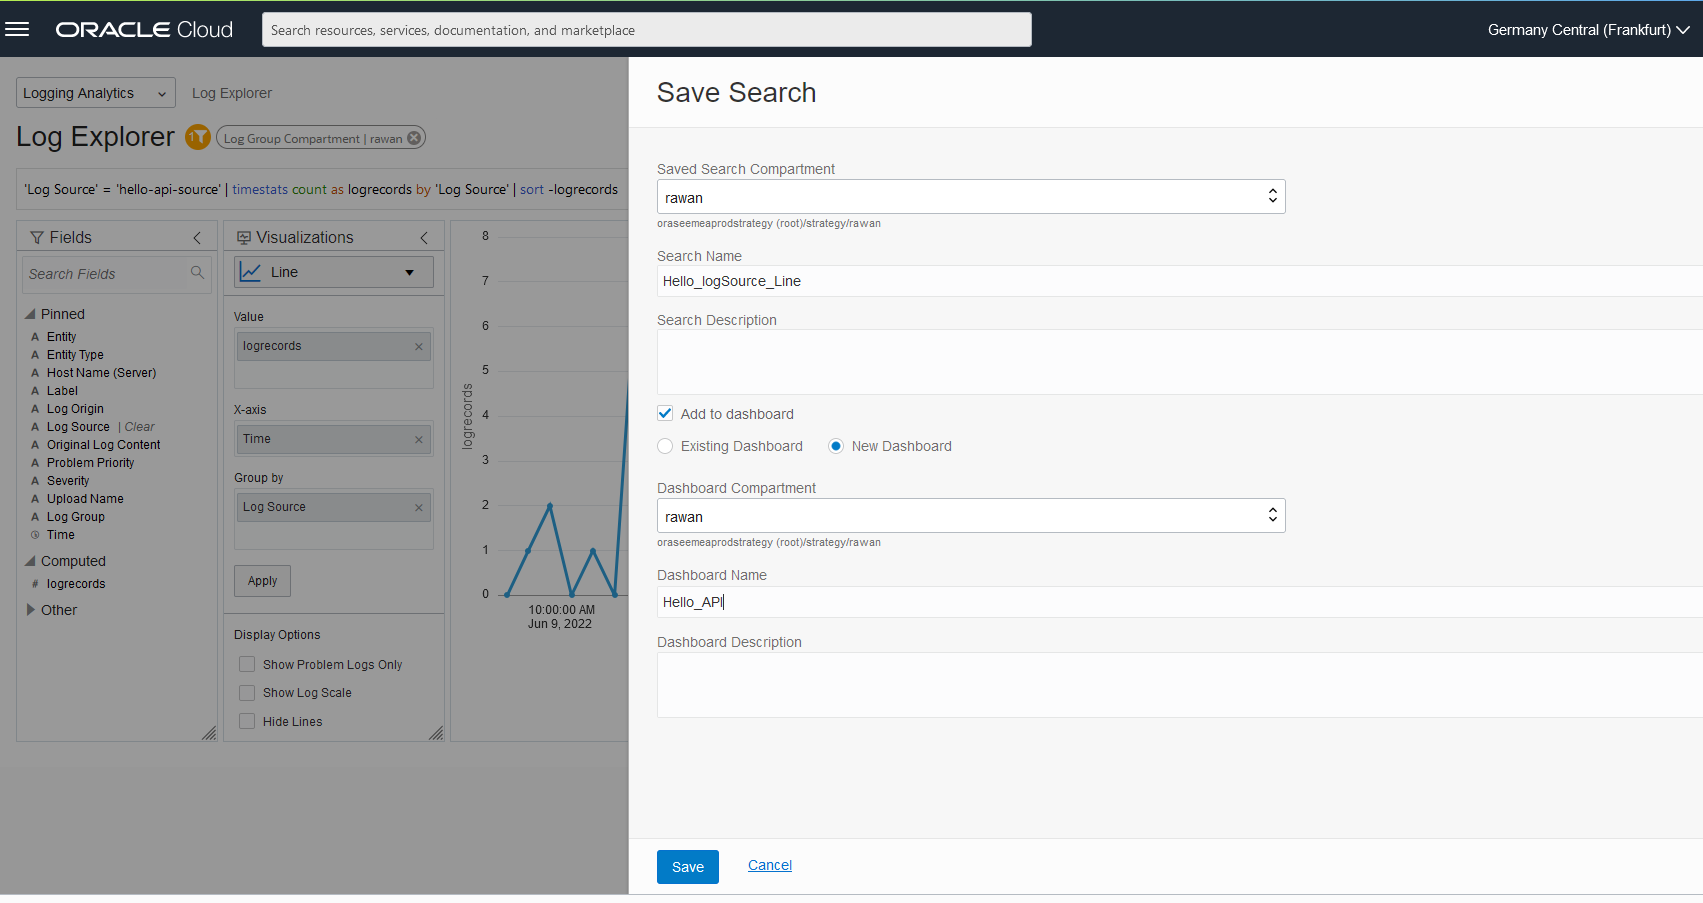
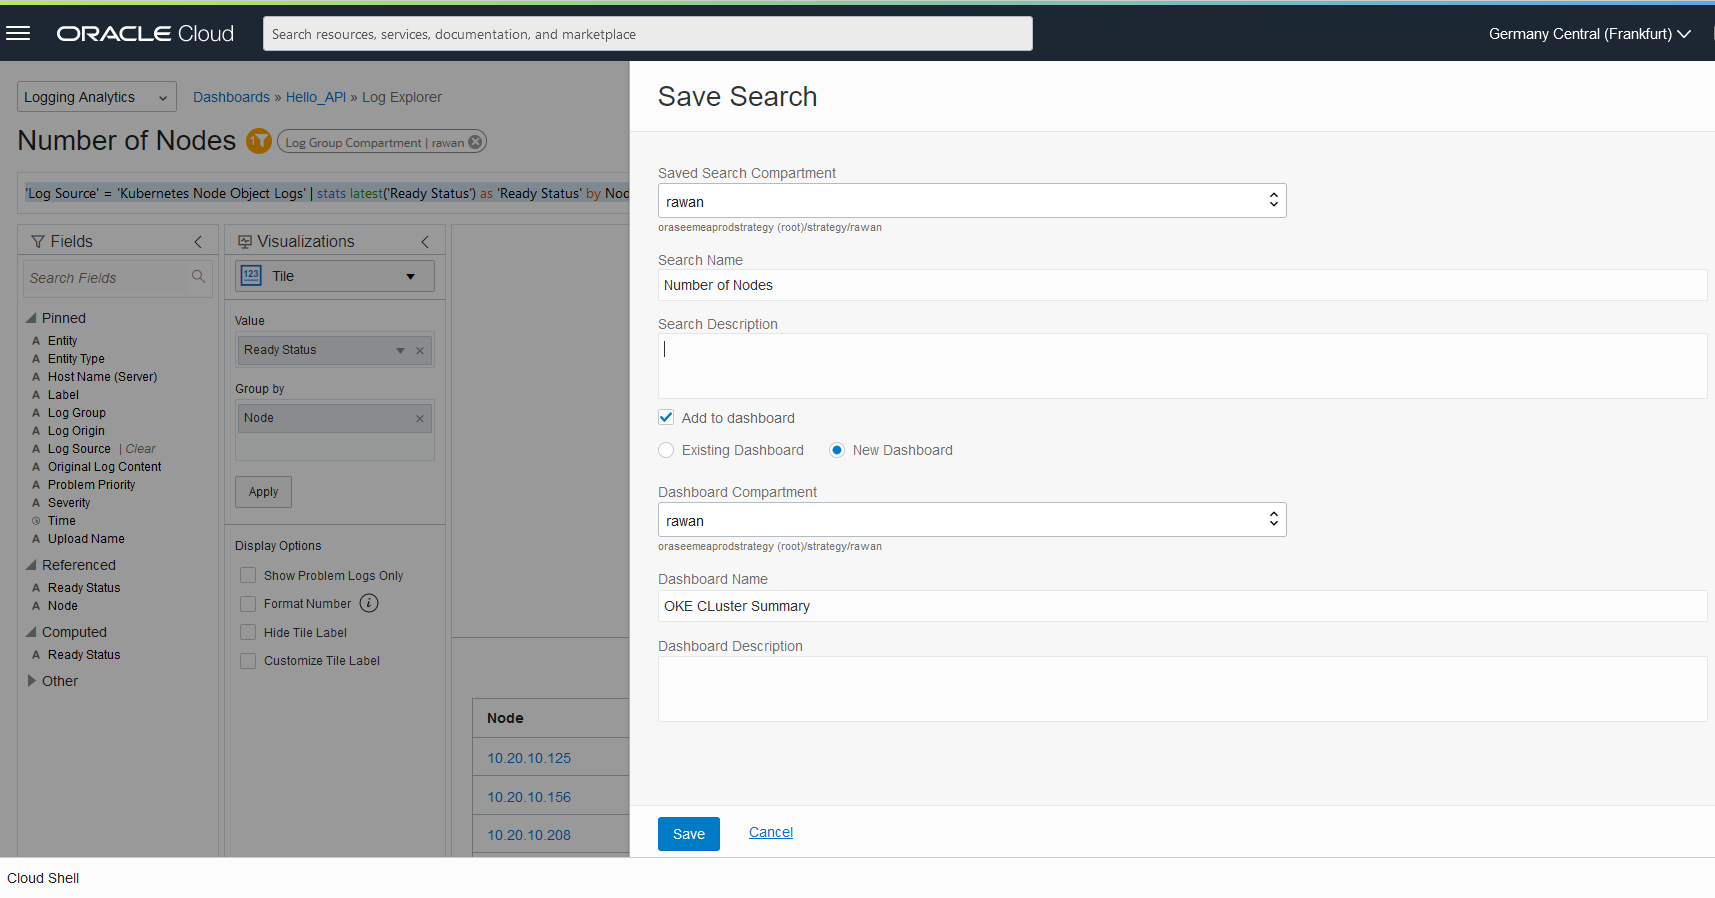
Update

diff --git a/logana/logana.md b/logana/logana.md
@@ -20,11 +20,22 @@ In this lab, you will:
 
 ## Task 1: Review the collected logs in the Log Explorer 
 
-  - Go to **_Menu > Observability & Management > Logging Analytics > Log Explorer**
+  - Let's start discover some of the Logging Analytics capabilities, go to **_Menu > Observability & Management > Logging Analytics > Log Explorer**
 
   ![](images/menu.png)
 
-  - On the filter menu on the left, click on **_Log source_** and select **_hello-api-source_**.
+  - You will see that logs has already started to show on the graph, let's try diffrent visualiztions to understand the situation of our enviroment, 
+    
+    > Make sure you have chose the right comaprtamnet 
+   ![](./images/logexp.png)
+
+   - Choose the **Cluster** Visualization, which apply the machine learning capabilities to identify the log records into(clusters, potential issues, outliers,trends)
+
+  ![](images/cluster.png)
+
+## Task 2: Analyse The Application Logs
+
+  - To have a deeper view of our application you can filter **Log Source** and choose the one we created in the previous lab **hello-api-source**, where we can find info about the running application
   
   ![](./images/log-explorer-source-selection.png)
 
@@ -32,19 +43,12 @@ In this lab, you will:
   
   ![](images/logsource.png)
 
-  - Select **Line** as visualization, and to see the workload over a longer period of time you can change the duration selected from the top right side.
+  - Select **Line** as visualization, and to visualize the workload over a longer period of time you can change the duration selected from the top right side.
 
   ![](images/Line.png)
   ![](images/log-explorer-viz.png)
   
 
-  - You can save the current Log Source visualisation in a saparated dashboard by clicking **Action** > **Save as**
-  ![](images/saveas.png)
-
-  - Select the right compartment, choose a name for the **Search Name** and click **Add to dashboard** and choose **new dashboard**, select the same compartment as the Search Name and enter a name for the dashborad in the **Dashboard Name** 
-  ![](images/dashboardname.png)
-
-## Task 2: Search for the error logs 
  
   - Select **Records and Histograms** as visualization.
   ![](images/records.png)
@@ -59,11 +63,96 @@ In this lab, you will:
   - You will see the log errors 404 you generated with the /notfound path.
   ![](images/error.png)
 
-  - To track the error occuration we will add it to the dashboard created earlier in task 1
-  ![](images/errorsave.png)
 
-  - Select the same compartment and change the **Search Name**, select **Add to dashboard** > **Existing Dashboard** and choose the dashboard you created in task 1.
-  ![](images/save404.png)
+## Task 3: Create Your Own Dashboard
+
+ - To keep an eye on the enviroment we will save some searches that show a summary view of the OKE logs and matrices to a new dashboard that will constantly update the views regarding those specific searches you choose, for this workshop I have chosen to save the following searches:
+### Number of Nodes:
+  - At the query box paste the following:
+  ```
+  <copy>'Log Source' = 'Kubernetes Node Object Logs' | stats latest('Ready Status') as 'Ready Status' by Node
+  </copy>
+  ```
+  And choose Visualization **Tile**
+  ![](images/nofnode.png)
+  
+ - to create a new dashboard go to the top right side and click  **Action** > **Save as**
+  ![](images/savenonode.png)
+
+  - Select the right compartment, choose a name for the **Search Name** and click **Add to dashboard** and choose **new dashboard**, select the same compartment as the Search Name and enter a name for the dashborad in the **Dashboard Name** 
+  ![](images/dashboardname.png)
+
+### Container Status
+  - At the query box paste the following:
+
+```
+<copy>
+</copy>
+```
+And choose Visualization
+![]
+  - Click the **Actions** drill down and select the same compartment and change the **Search Name**, select **Add to dashboard** > **Existing Dashboard** and choose the dashboard you created earlier.
+![]
+ 
+### Container Status
+  - At the query box paste the following:
+
+```
+<copy>
+</copy>
+```
+And choose Visualization
+![]
+  - Click the **Actions** drill down and select the same compartment and change the **Search Name**, select **Add to dashboard** > **Existing Dashboard** and choose the dashboard you created earlier.
+![] 
+
+### Container Status
+  - At the query box paste the following:
+
+```
+<copy>
+</copy>
+```
+And choose Visualization
+![]
+  - Click the **Actions** drill down and select the same compartment and change the **Search Name**, select **Add to dashboard** > **Existing Dashboard** and choose the dashboard you created earlier.
+![]
+
+### Container Status
+  - At the query box paste the following:
+
+```
+<copy>
+</copy>
+```
+And choose Visualization
+![]
+  - Click the **Actions** drill down and select the same compartment and change the **Search Name**, select **Add to dashboard** > **Existing Dashboard** and choose the dashboard you created earlier.
+![]
+
+### Container Status
+  - At the query box paste the following:
+
+```
+<copy>
+</copy>
+```
+And choose Visualization
+![]
+  - Click the **Actions** drill down and select the same compartment and change the **Search Name**, select **Add to dashboard** > **Existing Dashboard** and choose the dashboard you created earlier.
+![]
+
+### Container Status
+  - At the query box paste the following:
+
+```
+<copy>
+</copy>
+```
+And choose Visualization
+![]
+  - Click the **Actions** drill down and select the same compartment and change the **Search Name**, select **Add to dashboard** > **Existing Dashboard** and choose the dashboard you created earlier.
+![]
   -  To view the created dashboard, from the top left side go to **Dashboards**, and select the created dashboard **Hello_API**
   ![](images/dashboard.png)
   ![](images/dashboards.png)

diff --git a/infrastructure/infrastructure.md b/infrastructure/infrastructure.md
@@ -21,7 +21,7 @@ In this lab, you will:
 
 ## Task 1: Enable access to Log Group with Instance Principal
 
-  - First you need to enable Logging analytics sevice, first go to the menu and select **Observability and Management** and select **Logging Analytics**
+  - First you need to enable Logging analytics service, go to the menu and select **Observability and Management** and select **Logging Analytics**
 
   ![](./images/img1.png)
 
@@ -35,21 +35,24 @@ In this lab, you will:
 
  - Now go back to the menu on the left top side and choose **_Identity & Security_**, then **_Dynamic Groups_**
 
+  ![](images/menu-1.png)
 
  - Create a Dynamic Group called **_dynamic-group-oke-node-pool_** that matches OKE node pool workers with matching rule:
     ```
     <copy>All {instance.compartment = '<COMPARTMENT_NAME>'}</copy>
     ```  
-   You have to replace **_COMPARTMENT_NAME_** for the compartment name where your Kubernetes Cluster is going to be created.
+   You have to replace **`COMPARTMENT_NAME`** for the compartment name where your Kubernetes Cluster is going to be created.
  
  - From the left side menu select **_Policies_**, and create a policy to allow access to Log Group with the following rule:
+  
+  ![](images/policymenu.png)
   
     ```
     <copy>
     Allow dynamic-group dynamic-group-oke-node-pool to {LOG_ANALYTICS_LOG_GROUP_UPLOAD_LOGS} in compartment <COMPARTMENT_NAME>  
     </copy>
     ```
-
+  ![](images/policycreate.png)
 ## Task 2: Create a Log Source in the Logging Analytics
  
    A **_log source_** is the built-in definition of where log files are located and how to collect, mask, parse, extract and enrich the collected log data.
@@ -197,7 +200,7 @@ In this lab, you will:
     ```
 
 
-## Task 4: Manual Application Testing
+## Task 4: Application Testing
 
   - With the **_KUBECONFIG_** exported you can use **_kubectl_** to get some information
 
@@ -207,7 +210,7 @@ In this lab, you will:
       kubectl get nodes
     </copy>
     ```
-
+  ![](images/getnodesCS.png)
     Kubernetes services:
 
     ```
@@ -215,30 +218,30 @@ In this lab, you will:
       kubectl get services
     </copy>
     ```  
-  
+  ![](images/getserviceCS.png)
     You can also list the helm app installed with:
     ```
     <copy>
       helm list
     </copy>
     ```
-
+  ![](images/helmlistCS.png)
   Make sure the application hello-api is successfully deployed.
 
-  - Get the public IP of the load balancer into the variable LB_PUBLIC_IP:
+  - Get the public IP of the load balancer into the variable **`LB_PUBLIC_IP`**:
     ```
     <copy>
       export LB_PUBLIC_IP=$(kubectl get services -o jsonpath='{.items[?(@.spec.type=="LoadBalancer")].status.loadBalancer.ingress[0].ip}')
     </copy>
     ```
-
+  ![](./images/exportCS.png)
   - Print the IP, it should return a valid public IP address.
     ```
     <copy>
       echo $LB_PUBLIC_IP
     </copy>
     ```
-
+  ![](images/echoCS.png)
   - You are going to generate some workload and therefore logs to be explored with Logging Analytics. We are using a tool called k6.oi run in a container locally.
     ```
     <copy>

diff --git a/dbmngt/dbmngt.md b/dbmngt/dbmngt.md
@@ -1,0 +1,68 @@
+# Database Management & More
+
+## Introduction
+
+In this lab we will unleash the capabilites of Logging Analytics and review aggregated data in a dashboard and explore the available logs in the Log Explorer. 
+
+Estimated Time: X minutes
+
+### Objectives
+
+In this lab, you will:
+- explore the Fleet Summary.
+- create alarm
+
+
+## Task 1: Enable DataBase Management 
+- Go to the Menu select Oracle Database > Autonomous DataBase
+  ![](images/menu.png)
+
+- As you can see the Database instance has been created with the terraform apply job, click on the DB instance,
+  ![]
+
+- At the Associated Features click Enable for both Database Management & Operations Insights
+![]
+
+- From the Menu go back to the Observability & Management > Database Management
+![]
+
+- You can see on the Fleet summary diffrent information related to the the Database instance
+
+- You can see further information related tou planning capacity from the realted features > Operations Insights
+  
+
+## Task 2: Create An Alarm 
+
+- Back on the Fleet Summary you can see Alarams, click on Alarms,
+
+- it will redirect you to Monitoring Solution where you can define and view Alarms
+
+- From Alarm Definitions click Create Alarm,
+
+- Fill in the required information 
+
+- finally, click create alarm
+
+
+## Task 3: Simulate an outage
+
+- Back on the cloud shell, connect to the OKE CLuster 
+
+
+- Deploy the load simulation pods
+```
+<copy>
+kubectl create -f https://raw.githubusercontent.com/oracle-quickstart/oci-cloudnative/master/src/load/load-dep.yaml
+</copy>
+```
+### Logging Analytics
+- go to the created dashboard on Logging Analytics and observe the changes happening on the OKE cluster
+
+
+
+### Monitoring
+- if
+
+
+ 
+
